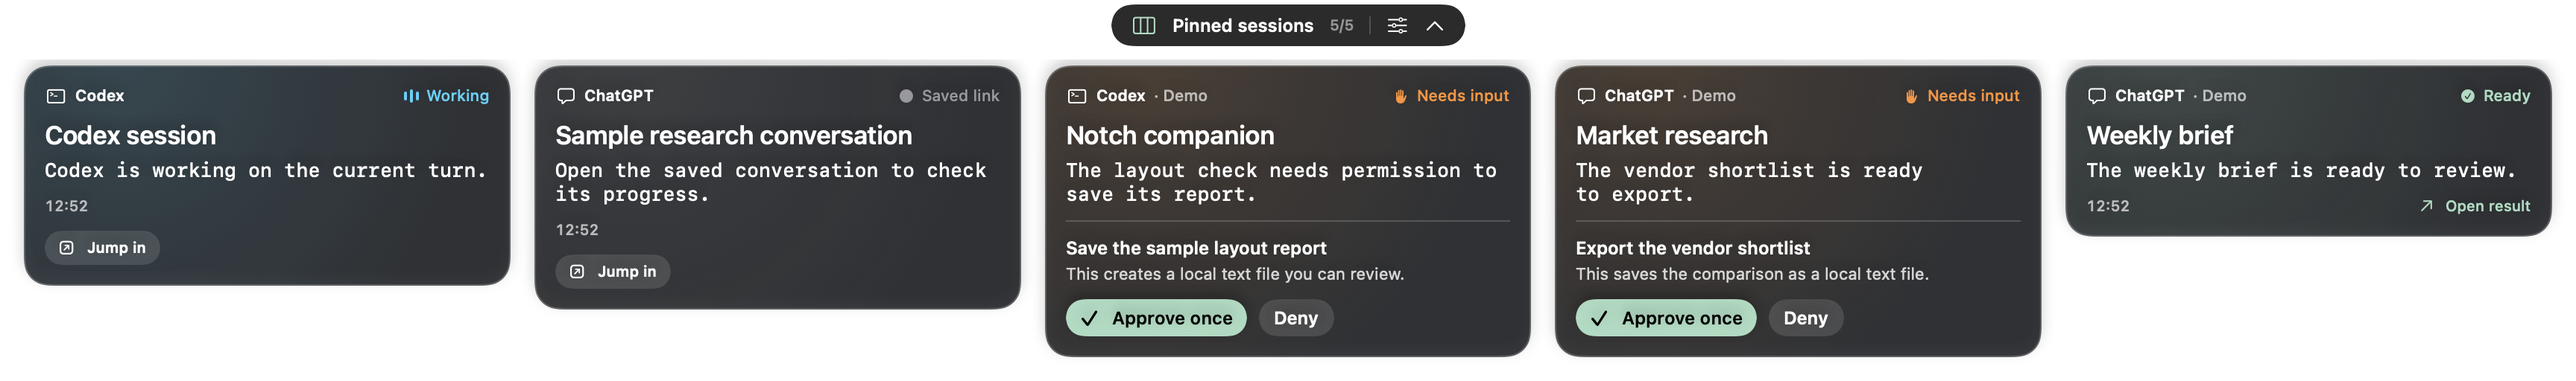
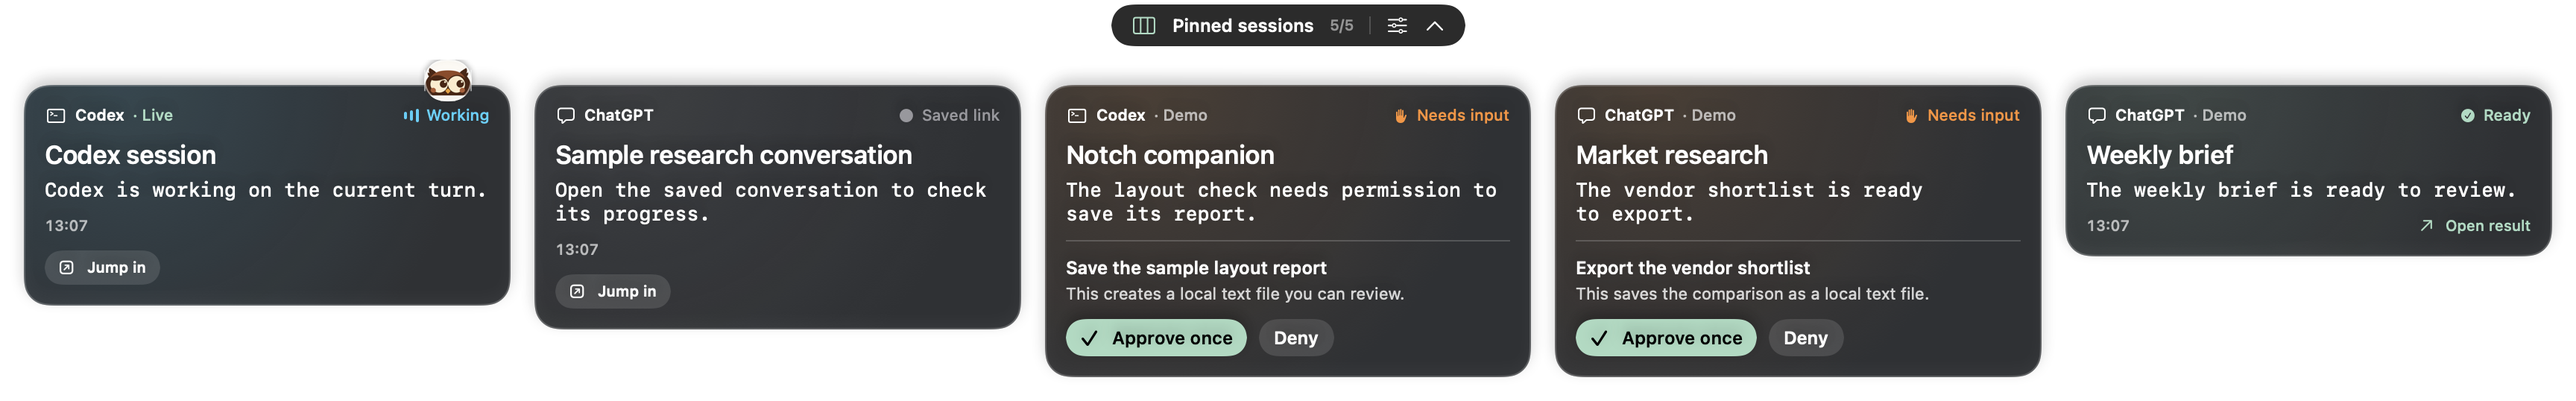
Follow the latest active pinned session with the watchnotch owl

diff --git a/Sources/Panel.swift b/Sources/Panel.swift
@@ -32,9 +32,11 @@ private struct TileRowHeight: PreferenceKey {
 }
 
 struct PanelView: View {
+    private static let owl = Bundle.main.url(forResource: "watching-owl",withExtension: "png").flatMap { NSImage(contentsOf: $0) }
     @ObservedObject var store: Store
     @ObservedObject var panel: PanelState
     let toggle: () -> Void
+    @Environment(\.accessibilityReduceMotion) private var reduceMotion
     @State private var source = "ChatGPT"
     @State private var link = ""
     @State private var title = ""
@@ -87,7 +89,20 @@ struct PanelView: View {
                                     SessionTile(card: card, store: store, panel: panel, index: index, width: width)
                                         .frame(width: width)
                                 }
-                            }.padding(.horizontal,16).padding(.top,4).padding(.bottom,16)
+                            }.padding(.top,17)
+                            .overlay(alignment: .topLeading) {
+                                if let owl = Self.owl, let watched = store.watchedSession, let index = store.pinned.firstIndex(where: { $0.id == watched }) {
+                                    Image(nsImage: owl)
+                                        .resizable().scaledToFill().frame(width: 42,height: 42)
+                                        .frame(width: 32,height: 28).clipShape(Capsule())
+                                        .overlay { Capsule().strokeBorder(.white.opacity(0.5),lineWidth: 1) }
+                                        .shadow(color: .black.opacity(0.3),radius: 2,y: 1)
+                                        .accessibilityLabel("Watching " + store.pinned[index].value.title)
+                                        .allowsHitTesting(false)
+                                        .offset(x: CGFloat(index) * (width + gap) + width - 58)
+                                        .animation(reduceMotion ? nil : .spring(response: 0.48,dampingFraction: 0.82),value: index)
+                                }
+                            }.padding(.horizontal,16).padding(.bottom,16)
                             .background { GeometryReader { bounds in
                                 Color.clear.preference(key: TileRowHeight.self,value: bounds.size.height)
                             } }
@@ -177,6 +192,7 @@ private struct SessionTile: View {
                 Image(systemName: card.value.provider == "Codex" ? "terminal" : "bubble.left")
                 Text(card.value.provider).fontWeight(.semibold)
                 if card.origin == .fixture { Text("· Demo").foregroundStyle(.white.opacity(0.65)) }
+                else if card.value.state != .unavailable { Text("· Live").foregroundStyle(accent) }
                 Spacer(minLength: 2)
                 ActivityMark(state: card.value.state,tint: card.tint)
                 Text(stateName).foregroundStyle(card.tint)

diff --git a/Tests/main.swift b/Tests/main.swift
@@ -94,3 +94,36 @@ check(SessionJump(card: Card(value: local,origin: .adapter),pairedWebLink: cloud
 check(SessionJump(card: Card(value: local,origin: .adapter))!.steps(providerRunning: false) == [.desktop(nativeURL)],"local-only UUID must open its own native thread")
 check(SessionJump.webLink("https://unrelated.example/codex/tasks/task_123") == nil,"unexpected web destination")
 print("PASS  Exact-session desktop routing, browser fallback, offline, local-only, and fixture handling")
+
+let owlRoot = root.appendingPathComponent("owl-test")
+let owlDir = owlRoot.appendingPathComponent("Sessions")
+let owlStore = Store(root: owlRoot,directory: owlDir,ticking: false)
+let demoPins = owlStore.pinned.map(\.id)
+let clock = Date()
+check(owlStore.watchedSession == demoPins[0],"equal timestamps must keep stable pin order")
+owlStore.tick(now: clock.addingTimeInterval(5))
+owlStore.tick(now: clock.addingTimeInterval(10))
+check(owlStore.watchedSession == demoPins[1],"owl did not follow new demo activity")
+
+func publishActivity(_ key: String, at time: Date, state: SessionState = .running) throws -> Identity {
+    let sample = Snapshot(provider: "Codex",sessionID: key,title: "Same title",sentence: "The task is running.",state: state,updatedAt: time)
+    try Format.encoder().encode(sample).write(to: owlDir.appendingPathComponent(key + ".json"),options: .atomic)
+    owlStore.tick()
+    let id = Identity(origin: .adapter,provider: "Codex",sessionID: key)
+    owlStore.pin(id)
+    return id
+}
+let first = try publishActivity("first",at: clock)
+let second = try publishActivity("second",at: clock.addingTimeInterval(2))
+check(owlStore.watchedSession == second,"demo or older live session took focus")
+_ = try publishActivity("first",at: clock.addingTimeInterval(3),state: .needsInput)
+check(owlStore.watchedSession == first,"newer event failed to move the owl")
+owlStore.tick()
+check(owlStore.watchedSession == first,"quiet poll moved the owl")
+_ = try publishActivity("first",at: clock.addingTimeInterval(4),state: .unavailable)
+check(owlStore.watchedSession == second,"disconnected session kept the owl")
+for id in demoPins + [second] { owlStore.unpin(id) }
+check(owlStore.watchedSession == nil,"offline card attracted the owl")
+_ = owlStore.addChat("https://chatgpt.com/c/" + UUID().uuidString,title: "Saved conversation")
+check(owlStore.watchedSession == nil,"bookmark reported activity")
+print("PASS  Owl follows the latest pinned active session, prefers live updates and ignores bookmarks and quiet polls")

diff --git a/docs/index.html b/docs/index.html
@@ -13,9 +13,9 @@
 <main>
 <section class="hero">
 <div class="herocopy"><h1>Your sessions,<br><em>within reach.</em></h1>
-<div class="intro"><p>Pin up to five ChatGPT and Codex sessions across the top of your Mac. Catch an update, open a result, or jump back into the conversation.</p>
-<a class="download" href="https://github.com/erezlev13/watchnotch/releases/download/v0.1.1/watchnotch-mac-arm64.zip">Download for Mac <span aria-hidden="true">↓</span></a>
-<small>Apple silicon · macOS 13 or later · Preview 0.1.1</small></div></div>
+<div class="intro"><p>Pin up to five ChatGPT and Codex sessions across the top of your Mac. Follow the owl to the latest active session, open a result, or jump back into the conversation.</p>
+<a class="download" href="https://github.com/erezlev13/watchnotch/releases/download/v0.1.2/watchnotch-mac-arm64.zip">Download for Mac <span aria-hidden="true">↓</span></a>
+<small>Apple silicon · macOS 13 or later · Preview 0.1.2</small></div></div>
 <img class="owl" src="media/watchnotch-owl.png" alt="The brown watchnotch owl looking up" width="1254" height="1254">
 </section>
 <figure><div class="screen"><div class="notch" aria-hidden="true"></div><picture><source media="(prefers-reduced-motion: reduce)" srcset="media/sessions.png"><img src="media/sessions.gif" alt="Three floating session tiles. The Codex and market research demos ask for independent approvals while the weekly brief stays ready." width="1024" height="286"></picture></div><figcaption>Demo sessions running in the native Mac app.</figcaption></figure>
@@ -25,5 +25,5 @@
 <article><h3>Jump back in</h3><p>Choose <strong>Jump in</strong> on a linked tile to return to that session. ChatGPT tiles save conversation links. Codex can show live local thread status. Try the demo tiles to approve or deny two requests independently.</p></article>
 </div></section>
 </main>
-<footer><span>watchnotch</span><a href="https://github.com/erezlev13/watchnotch/releases/tag/v0.1.1">Release notes ↗</a></footer>
+<footer><span>watchnotch</span><a href="https://github.com/erezlev13/watchnotch/releases/tag/v0.1.2">Release notes ↗</a></footer>
 </body></html>

diff --git a/Sources/Store.swift b/Sources/Store.swift
@@ -42,6 +42,17 @@ final class Store: ObservableObject {
     }
 
     var pinned: [Card] { saved.pins.compactMap { cards[$0] } }
+    var watchedSession: Identity? {
+        // A replayed demo must never take attention away from a connected session.
+        let eligible = pinned.filter { $0.value.state != .unavailable }
+        let connected = eligible.filter { $0.origin == .adapter && $0.source != nil }
+        let candidates = connected.isEmpty ? eligible.filter { $0.origin == .fixture } : connected
+        return candidates.reduce(nil as Card?) { latest, card in
+            guard let latest else { return card }
+            return card.value.updatedAt > latest.value.updatedAt ? card : latest
+        }?.id
+    }
+
     var catalog: [Card] {
         cards.values.sorted { a, b in
             if a.origin != b.origin { return a.origin.rawValue < b.origin.rawValue }

diff --git a/README.md b/README.md
@@ -4,7 +4,7 @@
 
 [Website and Mac download](https://erezlev13.github.io/watchnotch/)
 
-A local macOS app for following up to five selected Codex and ChatGPT sessions. Click the strip by the camera or use the menu bar item to expand it. Floating tiles span the display with transparent space between them. Each tile types its updated status in white and shows its own pending decision or result. Reduce Motion displays new sentences immediately. On a narrow display, scroll the row horizontally.
+A local macOS app for following up to five selected Codex and ChatGPT sessions. Click the strip by the camera or use the menu bar item to expand it. The owl perches on the pinned live session with the latest status update. When only demo activity is available, it follows the demo. Saved ChatGPT links do not report live activity. Floating tiles span the display with transparent space between them. Each tile types its updated status in white and shows its own pending decision or result. Reduce Motion displays new sentences immediately. On a narrow display, scroll the row horizontally.
 
 ![Three horizontal session cards with a live Codex turn, a saved ChatGPT link and a demo approval](Demo/mixed-sessions.png)
 
